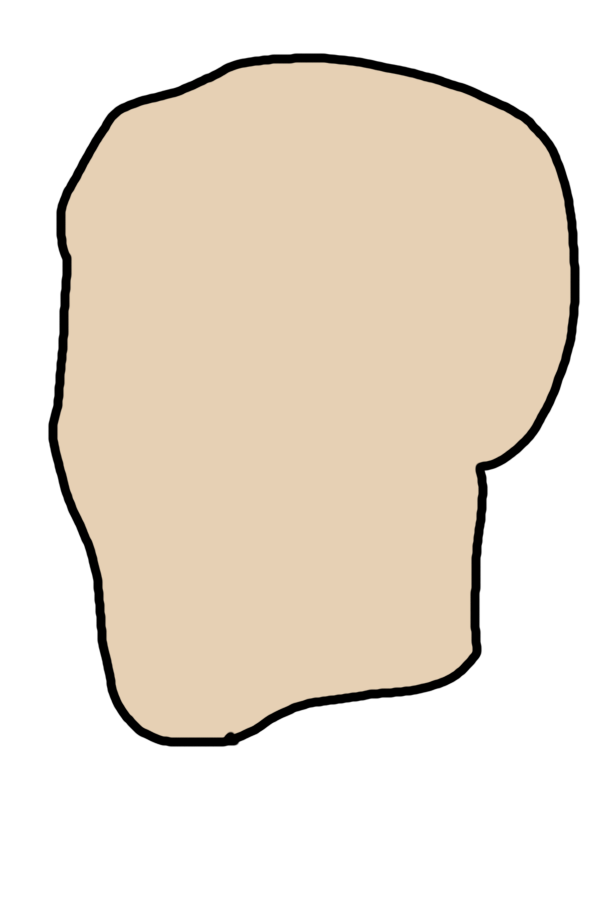
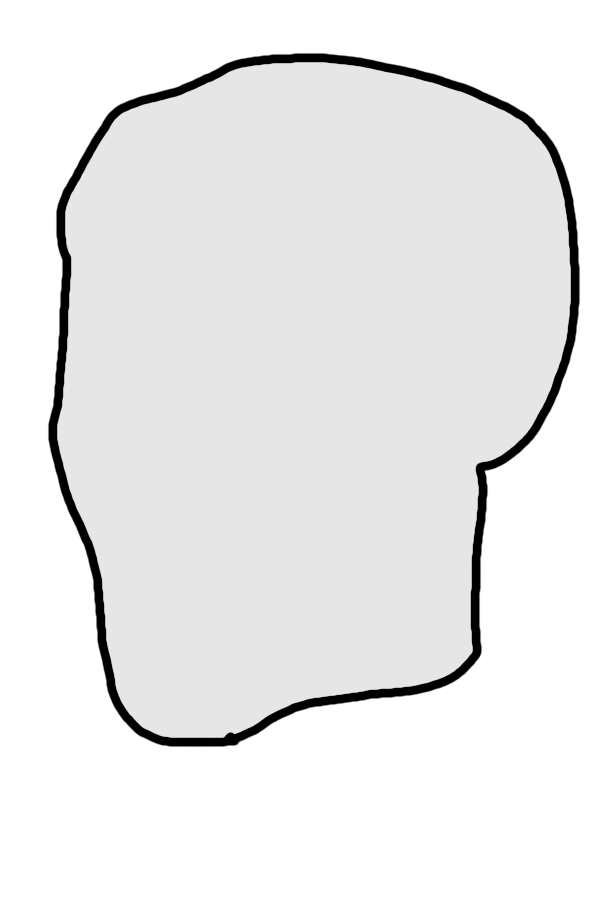
tinting

diff --git a/src/context/AppContext.js b/src/context/AppContext.js
@@ -1,4 +1,5 @@
-import React, { createContext, useContext, useReducer } from 'react';
+import React, { createContext, useContext } from 'react';
+import useAsyncReducer from './useAsyncReducer';
 import races from '../config/races.json';
 
 const initialState = races.map(race => ({
@@ -15,49 +16,112 @@ export const AppContext = createContext(initialState);
 
 const reducer = (state, action) => {
   const selectedRace = state.find(race => race.selected);
-  console.log('selectedRace', selectedRace)
-  switch (action.type) {
-    case 'selectRace':
-      
-      return state.map(race => ({
-        ...race,
-        selected: race.name === action.raceName,
-      }));
-    case 'selectComponentTab':
-      
-      return [
-        ...state.filter(race => !race.selected),
-        {
-          ...selectedRace,
-          components: selectedRace.components.map(component => ({
-            ...component,
-            selected: component.name === action.componentName,
+  return new Promise(resolve => {
+    switch (action.type) {
+      case 'selectRace':
+        
+        resolve(
+          state.map(race => ({
+            ...race,
+            selected: race.name === action.raceName,
           }))
-        }
-      ]
-    case 'selectComponentIndex':
-      const selectedComponent = selectedRace.components.find(component => component.selected);
-      return [
-        ...state.filter(race => !race.selected),
-        {
-          ...selectedRace,
-          components: [
-            ...selectedRace.components.filter(component => !component.selected),
+        );
+        break;
+      case 'selectComponentTab':
+        
+        resolve(
+          [
+            ...state.filter(race => !race.selected),
             {
-              ...selectedComponent,
-              index: action.index,
+              ...selectedRace,
+              components: selectedRace.components.map(component => ({
+                ...component,
+                selected: component.name === action.componentName,
+              }))
             }
           ]
-        }
-      ]
-    default:
-      return state;
-  }
+        );
+        break;
+      case 'selectComponentIndex':
+        const selectedComponent = selectedRace.components.find(component => component.selected);
+        
+        const componentCanvas = document.createElement('canvas');
+        componentCanvas.width = 600;
+        componentCanvas.height = 900;
+        const componentCtx = componentCanvas.getContext('2d');
+  
+        const componentImgSrc = `/components/${selectedRace.name}/${selectedComponent.path}/${selectedRace.name}${selectedComponent.name}${action.index}.png`;
+        let componentImg = new Image();
+        componentImg.addEventListener('load', () => {
+  
+            componentCtx.drawImage(componentImg, 0, 0);
+  
+            if (selectedComponent.tint) {
+                const tintSrc = `/components/${selectedRace.name}/${selectedComponent.path}/${selectedRace.name}${selectedComponent.name}${action.index}_tint.png`;
+                let tint = new Image();
+                tint.addEventListener('load', () => {
+                    const tintCanvas = document.createElement('canvas');
+                    tintCanvas.width = 600;
+                    tintCanvas.height = 900;
+                    const tintCtx = tintCanvas.getContext('2d');
+                    tintCtx.drawImage(tint, 0, 0);
+                    tintCtx.globalCompositeOperation = 'source-atop';
+                    tintCtx.fillStyle = selectedComponent.tint;
+                    tintCtx.fillRect(0, 0, 600, 900);
+                    tintCtx.globalCompositeOperation = 'source-over';
+  
+                    componentCtx.globalCompositeOperation = 'color';
+                    componentCtx.drawImage(tintCanvas, 0, 0);
+                    componentCtx.globalCompositeOperation = 'source-over';
+
+                    resolve([
+                      ...state.filter(race => !race.selected),
+                      {
+                        ...selectedRace,
+                        components: [
+                          ...selectedRace.components.filter(component => !component.selected),
+                          {
+                            ...selectedComponent,
+                            index: action.index,
+                            canvas: componentCanvas,
+                          }
+                        ]
+                      }
+                    ]);
+                })
+  
+                tint.src = tintSrc;
+            } else {
+              
+              resolve([
+                ...state.filter(race => !race.selected),
+                {
+                  ...selectedRace,
+                  components: [
+                    ...selectedRace.components.filter(component => !component.selected),
+                    {
+                      ...selectedComponent,
+                      index: action.index,
+                      canvas: componentCanvas,
+                    }
+                  ]
+                }
+              ])
+            }
+  
+            
+        });
+        componentImg.src = componentImgSrc;
+        break;
+      default:
+        resolve(state);
+    }
+  })
 };
 
 export const AppProvider = ({ children }) => {
 
-  const [appState, dispatch] = useReducer(reducer, initialState);
+  const [appState, dispatch] = useAsyncReducer(reducer, initialState);
 
   const selectRace = (raceName) => {
     dispatch({

diff --git a/src/Portrait/index.js b/src/Portrait/index.js
@@ -22,18 +22,82 @@ const Portrait = () => {
         const selectedRace = appState.find(race => race.selected);
 
         selectedRace.components.sort((a, b) => a.z - b.z).forEach(component => {
-            const imgSrc = `/components/${selectedRace.name}/${component.path}/${selectedRace.name}${component.name}${component.index}.png`;
+            if (component.canvas) {
+                ctx.drawImage(component.canvas, 0, 0)
+            }
+            /*const componentCanvas = document.createElement('canvas');
+            componentCanvas.width = 600;
+            componentCanvas.height = 900;
+            const componentCtx = componentCanvas.getContext('2d');
 
-            let img = new Image();
-            img.src = imgSrc;
-            img.addEventListener('load', () => ctx.drawImage(img, 0, 0), false);            
+            const componentImgSrc = `/components/${selectedRace.name}/${component.path}/${selectedRace.name}${component.name}${component.index}.png`;
+            let componentImg = new Image();
+            componentImg.addEventListener('load', () => {
+
+                componentCtx.drawImage(componentImg, 0, 0);
+
+                if (component.tint) {
+                    const tintSrc = `/components/${selectedRace.name}/${component.path}/${selectedRace.name}${component.name}${component.index}_tint.png`;
+                    let tint = new Image();
+                    tint.addEventListener('load', () => {
+                        const tintCanvas = document.createElement('canvas');
+                        tintCanvas.width = 600;
+                        tintCanvas.height = 900;
+                        const tintCtx = tintCanvas.getContext('2d');
+                        tintCtx.drawImage(tint, 0, 0);
+                        tintCtx.globalCompositeOperation = 'source-atop';
+                        tintCtx.fillStyle = component.tint;
+                        tintCtx.fillRect(0, 0, 600, 900);
+                        tintCtx.globalCompositeOperation = 'source-over';
+
+                        componentCtx.globalCompositeOperation = 'color';
+                        componentCtx.drawImage(tintCanvas, 0, 0);
+                        componentCtx.globalCompositeOperation = 'source-over';
+
+                        //ctx.drawImage(componentCanvas, 0, 0);
+                        setCanvases([
+                            ...canvases,
+                            {
+                                canvas: componentCanvas,
+                                order: component.z,
+                            }
+                        ]);
+                    })
+
+                    tint.src = tintSrc;
+                } else {
+                    setCanvases([
+                        ...canvases,
+                        {
+                            canvas: componentCanvas,
+                            order: component.z,
+                        }
+                    ]);
+                }
+
+                
+            });
+            componentImg.src = componentImgSrc;*/
+
+
         })
     }, [ctx, appState])
+
+    /*useEffect(() => {
+        if (!canvases.length || !ctx)
+            return;
+
+        ctx.clearRect(0, 0, 600, 900);
+
+        canvases.sort((a, b) => a.order - b.order).forEach(({ canvas }) => {
+            ctx.drawImage(canvas, 0, 0)
+        });
+    }, [canvases, ctx])*/
 
     return (
         <canvas
             id="portrait"
-            width="600" 
+            width="600"
             height="900"
 
             ref={canvasRef}

diff --git a/src/ComponentTabs/index.js b/src/ComponentTabs/index.js
@@ -18,15 +18,13 @@ const ComponentTab = () => {
 
     const selectedRace = appState.find(race => race.selected);
 
-    console.log({...appState})
 
     if (selectedRace) {
         const components = selectedRace.components.sort((a, b) => a.order - b.order);
-        console.log('components', components.map(c => c.name))
         return (
             <Container>
                 {components.map(component => 
-                    <Tile onClick={() => selectComponentTab(component.name)}>{component.name}</Tile>
+                    <Tile key={component.name} onClick={() => selectComponentTab(component.name)}>{component.name}</Tile>
                 )}
             </Container>
         );

diff --git a/src/context/useAsyncReducer.js b/src/context/useAsyncReducer.js
@@ -1,0 +1,23 @@
+import { useState } from "react";
+
+const useAsyncReducer = (reducer, initialState = null) => {
+  const [state, setState] = useState(initialState);
+
+  const dispatch = async action => {
+    const result = reducer(state, action);
+    if (typeof result.then === "function") {
+      try {
+        const newState = await result;
+        setState(newState);
+      } catch (err) {
+        setState({ ...state, error: err });
+      }
+    } else {
+      setState(result);
+    }
+  };
+
+  return [state, dispatch];
+};
+
+export default useAsyncReducer;
